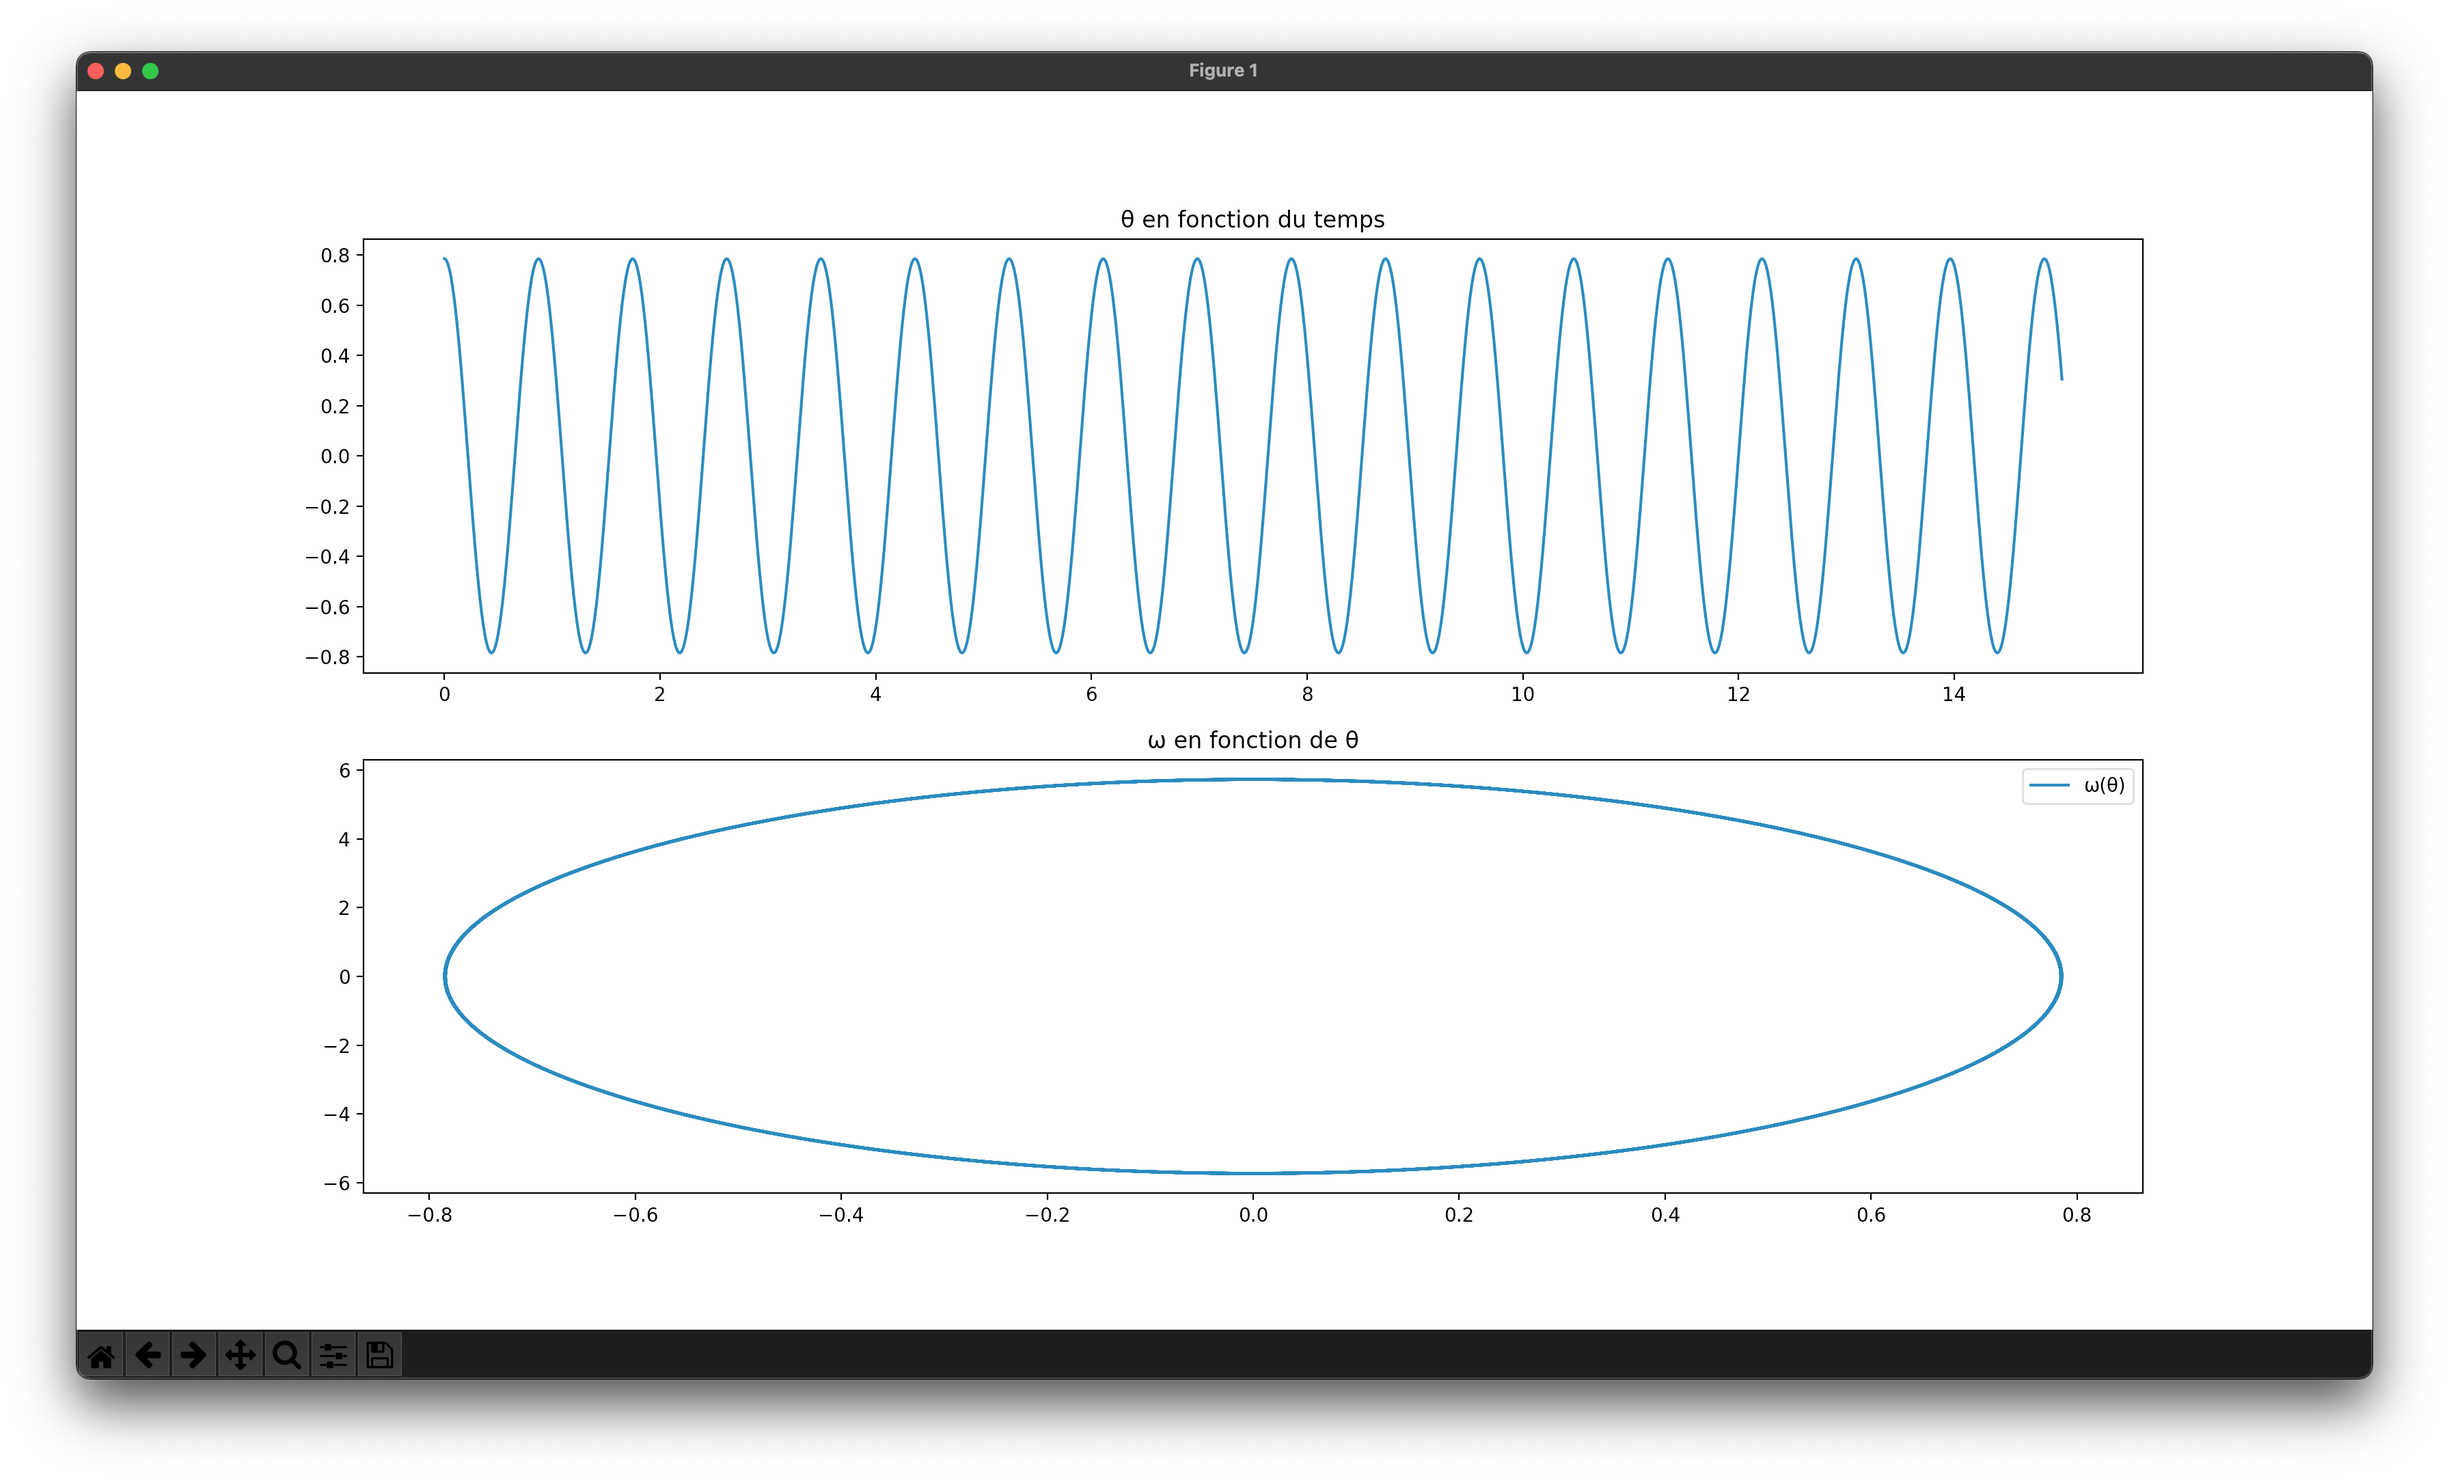
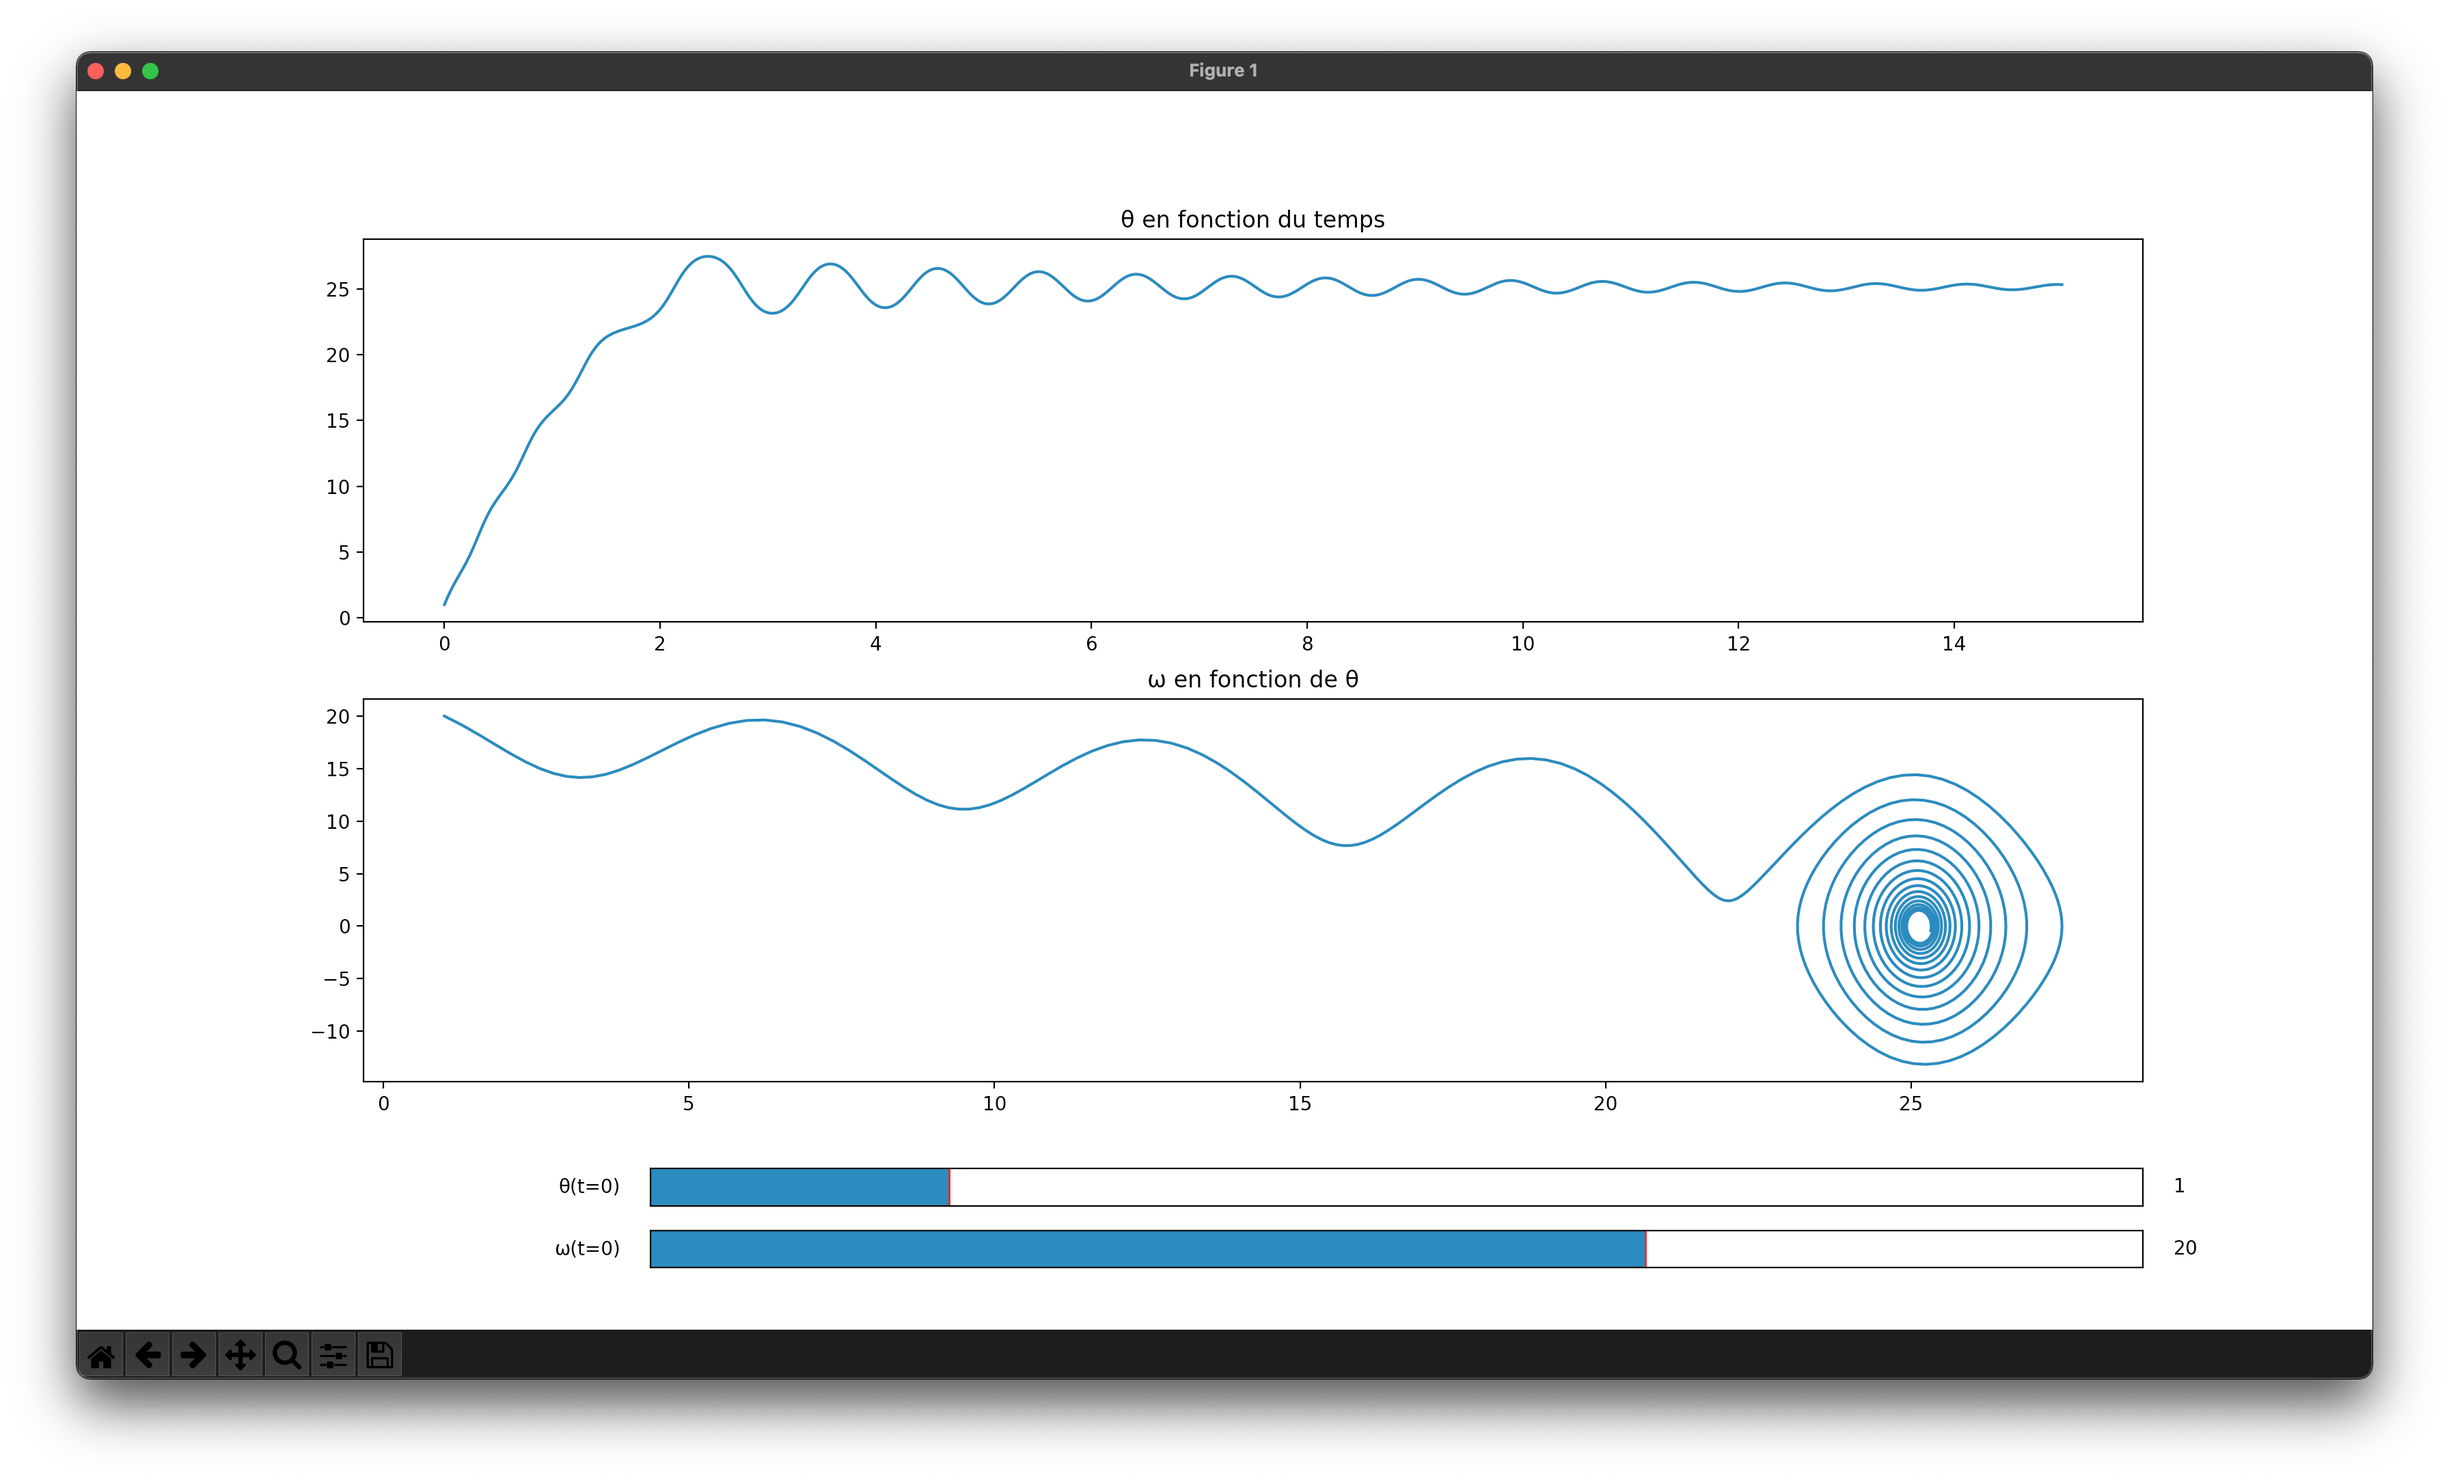
Fix + spliders

diff --git a/pendule_pesant.py b/pendule_pesant.py
@@ -5,19 +5,32 @@
 #
 
 # Imports
-from scipy.integrate import odeint
 import numpy as np
 import matplotlib.pyplot as plt
+from scipy.integrate import odeint
+from matplotlib.widgets import Slider
 
 # Définition des constantes
-m = 0.0583 # masse
+m = 58.3 # masse
 g = 9.81 # cte de pesanteur
 l = 0.525 # longeur de la règle
 J = 1/3 * m * l**2 # moment d'inertie
+mu = 2 # ??? (constante qui fait que le pendule ralenti)
 
 # Conditions initiales
-theta0 = np.pi / 4
-thetap0 = 0
+theta0 = 1
+thetap0 = 20
+
+# Réglage des graphs
+figure, axis = plt.subplots(2)
+plt.subplots_adjust(bottom=0.2)
+
+# Sliders (pour changer les réglages)
+ax_theta0 = plt.axes([0.25, 0.1, 0.65, 0.03])
+slider_theta0 = Slider(ax_theta0, 'θ(t=0)', 0, 5, valinit=theta0)
+
+ax_thetap0 = plt.axes([0.25, 0.05, 0.65, 0.03])
+slider_thetap0 = Slider(ax_thetap0, 'ω(t=0)', 0, 30, valinit=thetap0)
 
 # Fonction du pendule pesant
 def pendule(y, t):
@@ -26,24 +39,36 @@ def pendule(y, t):
 
     # On les dérive on fonction du temps
     dtheta = omega
-    domega = - (m * g * l / J) * np.sin(theta)
+    domega = - (mu / J * omega) - (m * g * l / J * np.sin(theta))
     return (dtheta, domega)
 
-# On résout l'équa diff
-t = np.linspace(0, 15, 1001)
-solution = odeint(pendule, (theta0, thetap0), t)
+def calculer(val):
+    # Récupère les valeurs
+    theta0 = slider_theta0.val
+    thetap0 = slider_thetap0.val
 
-# On extrait les coordonnées
-theta, omega = solution[:, 0], solution[:, 1]
+    # On résout l'équa diff
+    t = np.linspace(0, 15, 1001)
+    solution = odeint(pendule, (theta0, thetap0), t)
 
-# On trace
-figure, axis = plt.subplots(2)
+    # On extrait les coordonnées
+    theta, omega = solution[:, 0], solution[:, 1]
 
-axis[0].set_title('θ en fonction du temps')
-axis[0].plot(t, theta, label="θ(t)")
+    # On trace
+    axis[0].clear()
+    axis[0].set_title('θ en fonction du temps')
+    axis[0].plot(t, theta)
 
-axis[1].set_title('ω en fonction de θ')
-axis[1].plot(theta, omega, label="ω(θ)")
+    axis[1].clear()
+    axis[1].set_title('ω en fonction de θ')
+    axis[1].plot(theta, omega)
 
-plt.legend()
+# Ajout de la méthode de calcul aux sliders
+slider_theta0.on_changed(calculer)
+slider_thetap0.on_changed(calculer)
+
+# On calcul la trajectoire initiale
+calculer(None)
+
+# On affiche
 plt.show()
